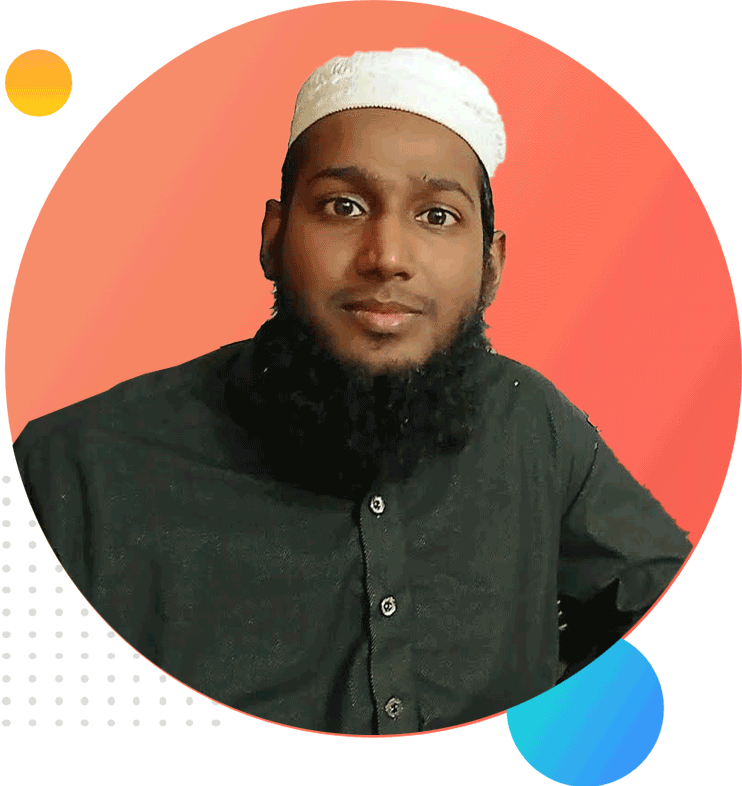
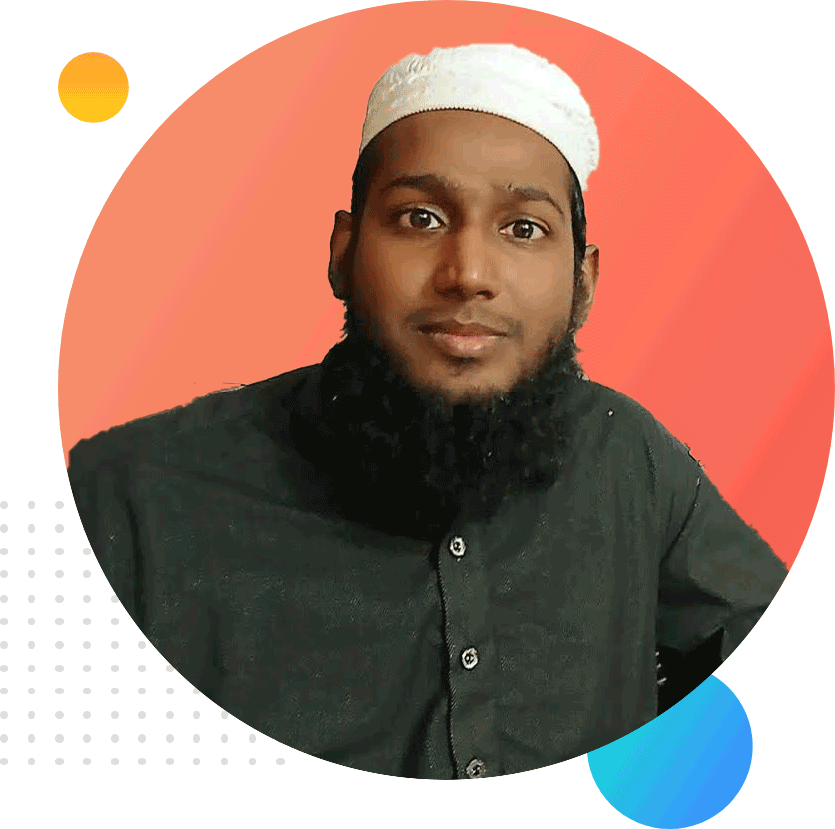
mobile view add

diff --git a/style.css b/style.css
@@ -16,16 +16,20 @@ span{
 }
 .banner{
     display: flex;
+    flex-wrap: wrap;
+    justify-content: space-evenly;
+    align-items: center;
 }
 .banner img{
-    max-width: 80%;
-    padding-left: 100px;
-    margin-top: 50px;
-
+    min-width: 30%;
+    max-height: 600px;
+    margin-top: 30px;
 }
 .banner-text{
-    min-width: 60%;
+    margin-top: -70px;
     text-align: center;
+    flex-grow: 2;
+
 }
 .banner-text ul{
     display: inline-flex;
@@ -49,17 +53,18 @@ span{
 .about-sec{
     display: flex;
     margin-top: 50px;
+    flex-wrap: wrap;
+    justify-content: space-evenly;
+    align-items: center;
 }
 .about-txt{
     min-width: 30%;
     max-width: 60%;
-    padding: 20px;
     text-align: center;
+    flex-grow: 2;
 }
 .about-sec img{
-    width: 100%;
-    padding-left: 30px;
-    margin-top: 50px;
+    min-width: 20%;
 }
 .about-txt h2{
     text-align: center;
@@ -84,7 +89,6 @@ span{
     width: 50px;
 }
 .about-txt ul{
-    margin-top: -40px;
     display: inline-flex;
     flex-wrap: wrap;
 
